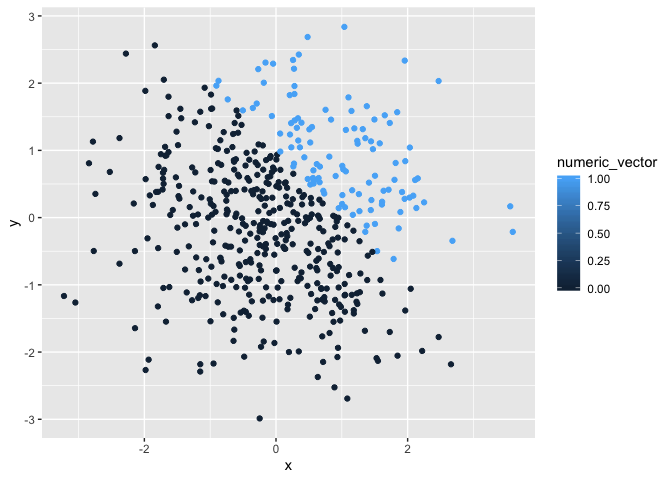
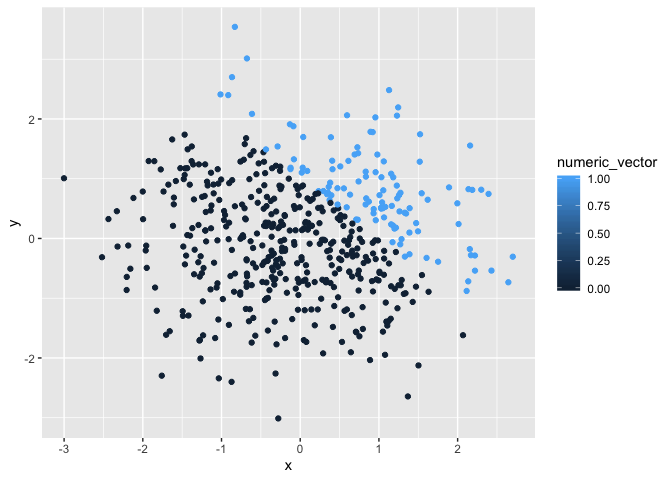
Last final, I promise!!

diff --git a/p8105_hw1_jl5295.md b/p8105_hw1_jl5295.md
@@ -5,53 +5,70 @@ Jana Lee
 
 # **Problem 1**
 
+## Making the First Data Frame
+
 ``` r
+set.seed(10)
+
 library (tidyverse)
 ```
 
-    ## ── Attaching packages ──────────────────────────────────────────────────────────────────────── tidyverse 1.2.1 ──
+    ## ── Attaching packages ──────────────────────────────────── tidyverse 1.2.1 ──
 
     ## ✔ ggplot2 3.2.1     ✔ purrr   0.3.2
     ## ✔ tibble  2.1.3     ✔ dplyr   0.8.3
     ## ✔ tidyr   1.0.0     ✔ stringr 1.4.0
     ## ✔ readr   1.3.1     ✔ forcats 0.4.0
 
-    ## ── Conflicts ─────────────────────────────────────────────────────────────────────────── tidyverse_conflicts() ──
+    ## ── Conflicts ─────────────────────────────────────── tidyverse_conflicts() ──
     ## ✖ dplyr::filter() masks stats::filter()
     ## ✖ dplyr::lag()    masks stats::lag()
 
 ``` r
-problem1_df = tibble(
+problem1_df =tibble(
   sample=rnorm(8),
   logical_vector = sample > 0,
   char_vector = c("Help", "am", "I", "doing", "this", "correctly", "ahh", "ahh"),
   factor_vector = factor(c("red", "yellow", "blue", "red", "yellow", "blue","red", "red"))
 )
 
-mean_sample = mean(pull(problem1_df, sample))
+mean(pull(problem1_df, sample))
+```
 
-mean_logical_vector = mean(pull(problem1_df, logical_vector))
+    ## [1] -0.3779272
 
-mean_char_vector = mean(pull(problem1_df, char_vector))
+``` r
+mean(pull(problem1_df, logical_vector))
+```
+
+    ## [1] 0.375
+
+``` r
+mean(pull(problem1_df, char_vector))
 ```
 
     ## Warning in mean.default(pull(problem1_df, char_vector)): argument is not
     ## numeric or logical: returning NA
 
+    ## [1] NA
+
 ``` r
-mean_factor_vector = mean(pull(problem1_df, factor_vector))
+mean(pull(problem1_df, factor_vector))
 ```
 
     ## Warning in mean.default(pull(problem1_df, factor_vector)): argument is not
     ## numeric or logical: returning NA
 
+    ## [1] NA
+
 **Problem 1 Comment** Problem 1 asks us to take a deep dive into
 creating a dataframe. problem1\_df was created and allows us to explore
-different types of vectors.
+different types of vectors. I set the seed here, so I can ensure
+reproducibility on this homework.
 
-Then, we took the mean. The mean of sample is -0.2224873. Mean of
+Then, I took the mean. The mean of sample is -0.2224873. Mean of
 logical\_vector is 0.5. Both the mean of char\_vector and factor\_vector
-generated a warning message. This does explain what is happening when we
+generated a warning message. This does explain what is happening when I
 try to take the mean because char\_vector and factor\_vector are not
 logical or numerical
 vectors.
@@ -74,7 +91,11 @@ as.numeric (as.factor (pull(problem1_df, logical_vector)))*(pull(problem1_df, sa
 
 # **Problem 2**
 
+## Making a Second Data Frame
+
 ``` r
+set.seed(10)
+
 problem2_df = tibble(
   x = rnorm (500),
   y = rnorm (500),
@@ -84,10 +105,10 @@ problem2_df = tibble(
 )
 ```
 
-The dataset has 500 rows and 5 columns. The mean of x is 0.0081834. The
-median of x is -0.0029011. The standard deviation of x is 1.0941979. The
+The dataset has 500 rows and 5 columns. The mean of x is -0.0108732. The
+median of x is -0.0212291. The standard deviation of x is 1.0164129. The
 proportion of cases for which x + y \> 1 is
-0.224.
+0.228.
 
 ## Scatterplots
 
@@ -119,5 +140,5 @@ ggsave("plota.png", height = 4, width = 6)
 **Scatterplot comment:** There are two colors for the logical\_vector
 scatterplot, one red and one green. There is a gradient of sky blue to
 dark blue for the numeric\_vector scatterplot. There are two colors for
-the factor\_vector, one red and one green. Saved plota as a PNG file.
-Confirmed it is in the File Directory.
+the factor\_vector, one red and one green. Saved plota as a PNG file,
+and onfirmed it is in the File Directory.
